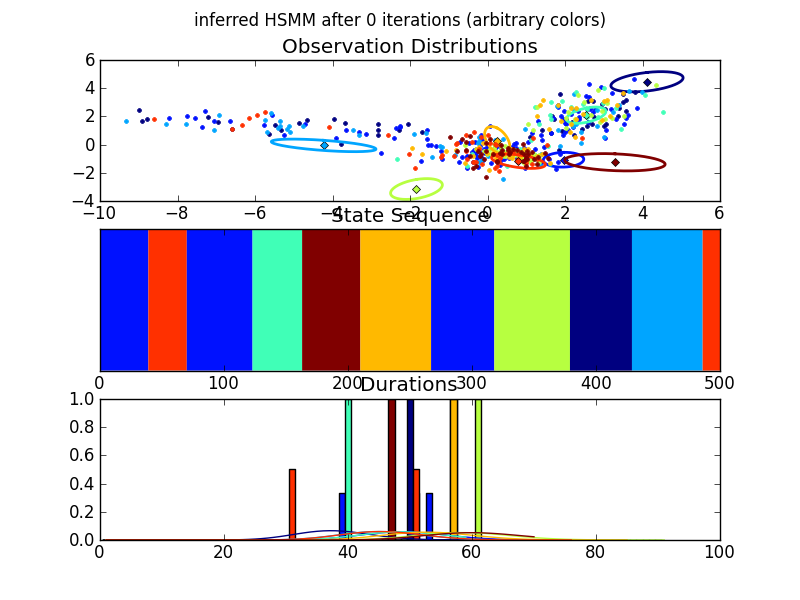
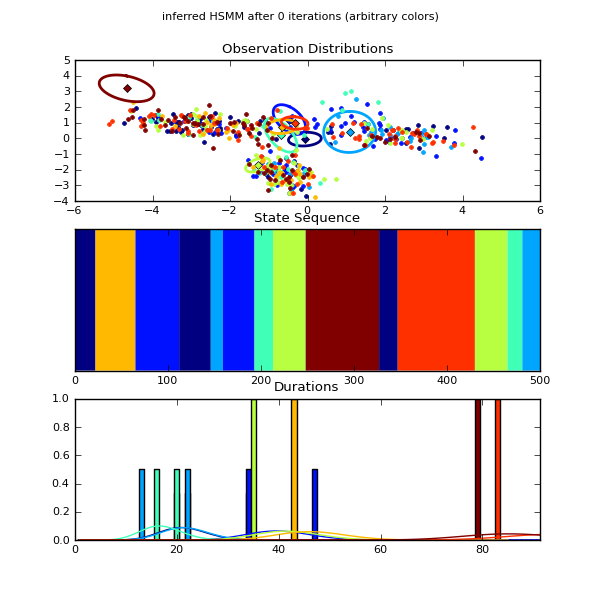
made better demo images and slightly improved plotting

Changed region(s): [[0.09, 0.09, 0.93, 0.93], [0.24, 0.0, 0.75, 0.09], [0.9, 0.12, 0.93, 0.33]]

diff --git a/demo.py b/demo.py
@@ -3,11 +3,15 @@ from __future__ import division
 import numpy as np
 np.seterr(divide='ignore') # these warnings are usually harmless for this code
 from matplotlib import pyplot as plt
+import matplotlib
+matplotlib.rcParams['font.size'] = 8
 
 import hsmm
 from basic_distributions.observations import gaussian
 from basic_distributions.durations import poisson
 from util.text import progprint_xrange
+
+save_images = True
 
 #### Data generation
 # Set parameters
@@ -36,6 +40,8 @@ data, labels = truemodel.generate()
 # Plot the truth
 truemodel.plot(data)
 plt.gcf().suptitle('True HSMM')
+if save_images:
+    plt.savefig('demo_images/truth.png')
 
 #### Posterior inference
 # Set the weak limit truncation level. This is essentially the maximum 
@@ -57,7 +63,9 @@ for idx in progprint_xrange(101):
     if (idx % plot_every) == 0:
         posteriormodel.plot(data)
         plt.gcf().suptitle('inferred HSMM after %d iterations (arbitrary colors)' % idx)
+        if save_images:
+            plt.savefig('demo_images/posterior_sample_%d.png' % idx)
 
     posteriormodel.resample(data)
 
-    
+plt.show()

diff --git a/hsmm.py b/hsmm.py
@@ -54,7 +54,8 @@ class hsmm(object):
         assert len(set([type(o) for o in self.obs_distns])) == 1, 'plot can only be used when all observation distributions are the same'
 
         # set up figure and state-color mapping dict
-        plt.figure()
+        fig = plt.figure()
+        fig.set_size_inches((6,6))
         state_colors = {}
         cmap = cm.get_cmap()
         used_states = set(self.states.stateseq_norep)
@@ -82,6 +83,7 @@ class hsmm(object):
             if state in used_states:
                 d.plot(color=cmap(state_colors[state]),
                         data=self.states.durations[self.states.stateseq_norep == state])
+        plt.xlim((0,self.states.durations.max()*1.1))
         plt.title('Durations')
 
         # TODO add a figure legend

diff --git a/basic_distributions/durations.py b/basic_distributions/durations.py
@@ -156,7 +156,7 @@ class poisson(DurationBase):
     def plot(self,data=None,tmax=None,color='b'):
         if tmax is None:
             if data is not None:
-                tmax = 1.5*data.max()
+                tmax = 2*data.max()
             else:
                 tmax = 2*self.rvs(size=1000).mean()
         t = np.arange(1,tmax)
